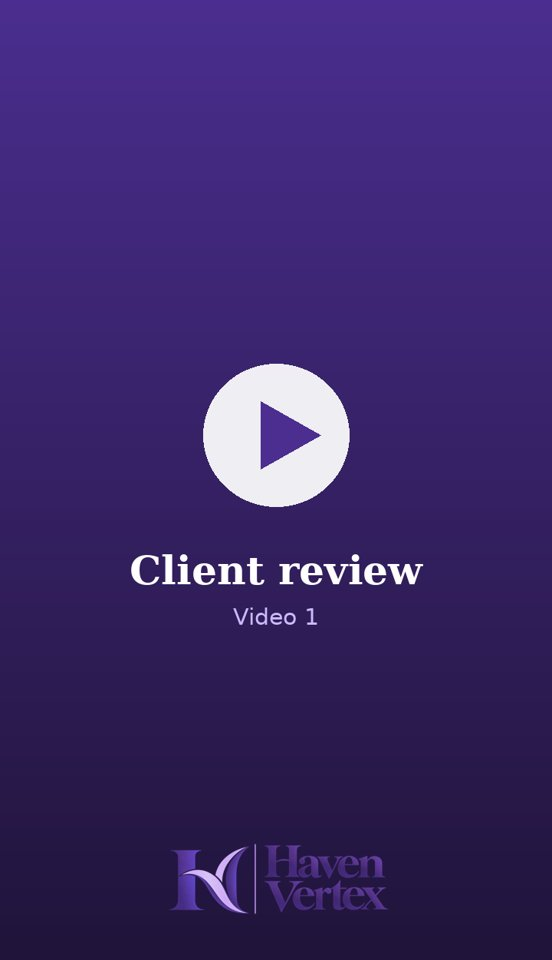
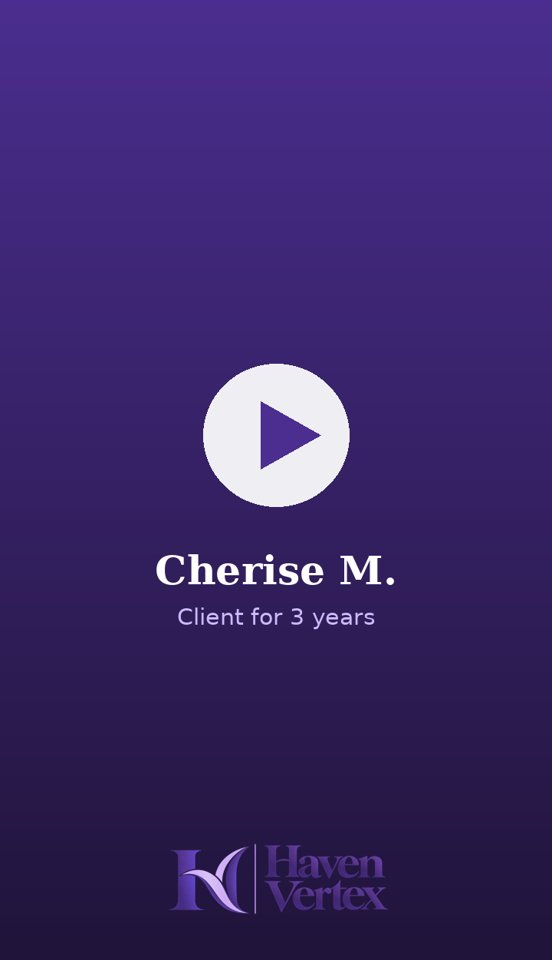
Name first video review Cherise M., client for 3 years
Claude-Session: https://claude.ai/code/session_011yQcQqLyJoT4eTdLfiDGen

Changed region(s): [[0.2464, 0.5625, 0.7699, 0.6562]]

diff --git a/src/lib/sanity/defaultContent.ts b/src/lib/sanity/defaultContent.ts
@@ -170,8 +170,8 @@ export const defaultTestimonialsSection: TestimonialsSectionContent = {
   items: [
     {
       type: "video",
-      clientName: "Client video 1",
-      company: "Haven Vertex client",
+      clientName: "Cherise M.",
+      company: "Client for 3 years",
       videoUrl: "/testimonials/client-1.mp4",
     },
     {
